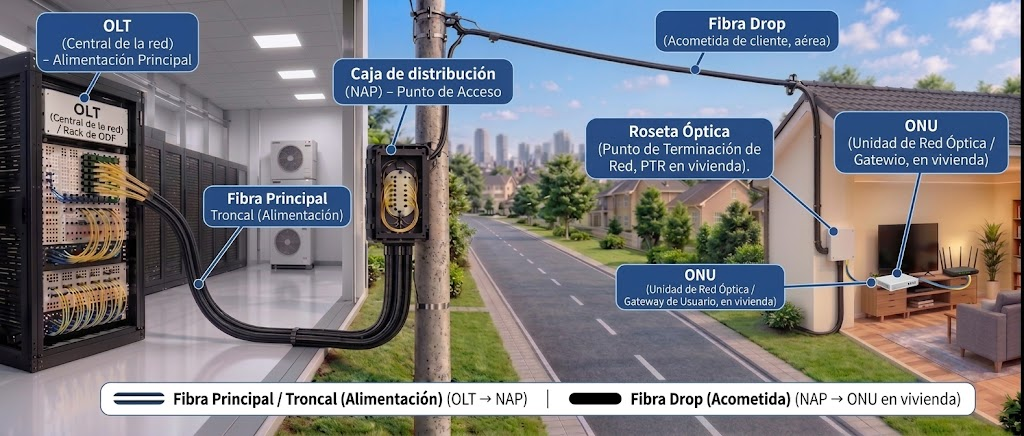
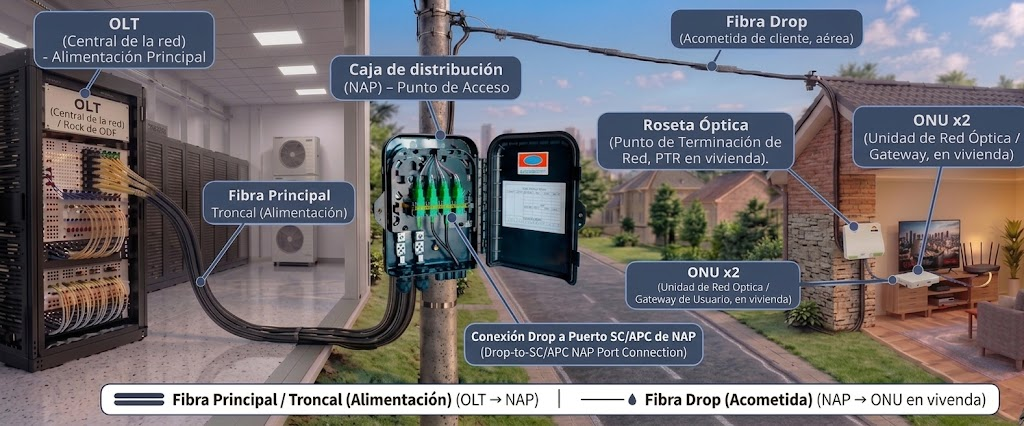
add so

diff --git a/clases/so/index.html b/clases/so/index.html
@@ -1,0 +1,277 @@
+<!DOCTYPE html>
+<html lang="es">
+
+<head>
+    <meta charset="UTF-8">
+    <meta name="viewport" content="width=device-width, initial-scale=1.0">
+    <title>Fundamentos de Sistemas Operativos</title>
+    <style>
+        /* CSS Reset y Base Mobile-First */
+        * {
+            box-sizing: border-box;
+            margin: 0;
+            padding: 0;
+        }
+
+        body {
+            font-family: -apple-system, BlinkMacSystemFont, "Segoe UI", Roboto, Helvetica, Arial, sans-serif;
+            background-color: #ffffff;
+            color: #000000;
+            line-height: 1.6;
+            padding: 1rem;
+        }
+
+        header {
+            text-align: center;
+            padding: 1.5rem 0 2rem 0;
+            border-bottom: 2px solid #000000;
+            margin-bottom: 2rem;
+        }
+
+        header h1 {
+            font-size: 1.8rem;
+            text-transform: uppercase;
+            letter-spacing: 0.5px;
+            margin-bottom: 0.5rem;
+        }
+
+        header p {
+            font-size: 1rem;
+            color: #333333;
+        }
+
+        /* Contenedor principal */
+        main {
+            max-width: 900px;
+            margin: 0 auto;
+        }
+
+        /* Secciones separadas */
+        .card-topic {
+            background-color: #ffffff;
+            border-left: 5px solid #000000;
+            box-shadow: 0 4px 12px rgba(0, 0, 0, 0.1);
+            /* Sombra gris 10% */
+            padding: 1.5rem;
+            margin-bottom: 2rem;
+            border-radius: 0 8px 8px 0;
+        }
+
+        .card-topic h2 {
+            font-size: 1.4rem;
+            margin-bottom: 1rem;
+            text-transform: uppercase;
+            border-bottom: 1px solid #e0e0e0;
+            padding-bottom: 0.4rem;
+        }
+
+        .card-topic h3 {
+            font-size: 1.15rem;
+            margin: 1.2rem 0 0.5rem 0;
+        }
+
+        .card-topic p {
+            margin-bottom: 0.8rem;
+            font-size: 0.98rem;
+        }
+
+        .card-topic ul {
+            margin-left: 1.2rem;
+            margin-bottom: 1rem;
+        }
+
+        .card-topic li {
+            margin-bottom: 0.4rem;
+            font-size: 0.95rem;
+        }
+
+        code {
+            background-color: #f4f4f4;
+            padding: 0.2rem 0.4rem;
+            border-radius: 4px;
+            font-family: "Courier New", Courier, monospace;
+            font-size: 0.9rem;
+        }
+
+        footer {
+            text-align: center;
+            padding: 2rem 0;
+            margin-top: 1rem;
+            border-top: 1px solid #e0e0e0;
+            font-size: 0.85rem;
+        }
+
+        /* Pantallas medianas y grandes (Desktop / Tablet) */
+        @media (min-width: 768px) {
+            body {
+                padding: 2rem;
+            }
+
+            header h1 {
+                font-size: 2.3rem;
+            }
+
+            .card-topic {
+                padding: 2rem;
+            }
+
+            .card-topic h2 {
+                font-size: 1.6rem;
+            }
+
+            .card-topic h3 {
+                font-size: 1.25rem;
+            }
+        }
+    </style>
+</head>
+
+<body>
+
+    <header>
+        <h1>Fundamentos de Sistemas Operativos</h1>
+        <p>Guía de conceptos esenciales, arquitecturas y sistemas de archivos</p>
+    </header>
+
+    <main>
+
+        <!-- Tema 1: Conceptos Fundamentales -->
+        <section class="card-topic">
+            <h2>1. Conceptos Clave de un Sistema Operativo</h2>
+            <p>Un <strong>Sistema Operativo (SO)</strong> es el software principal que gestiona el hardware de una
+                computadora y proporciona servicios a los programas de aplicación.</p>
+
+            <h3>Procesos vs. Hilos (Threads)</h3>
+            <ul>
+                <li><strong>Proceso:</strong> Es una programa en ejecución. Tiene su propio espacio de memoria
+                    independiente, asignación de recursos y contexto de seguridad.</li>
+                <li><strong>Hilo (Thread):</strong> Es la unidad más pequeña de ejecución dentro de un proceso.
+                    Múltiples hilos dentro del mismo proceso comparten la misma memoria y recursos, lo que permite la
+                    concurrencia y la multitarea eficiente.</li>
+            </ul>
+
+            <h3>Servicios y Demonios (Daemons)</h3>
+            <p>Son programas que se ejecutan en segundo plano sin una interfaz de usuario directa para realizar tareas
+                continuas o responder a eventos del sistema:</p>
+            <ul>
+                <li><strong>Servicios (Windows):</strong> Procesos gestionados por el Administrador de Control de
+                    Servicios (por ejemplo, el servicio de actualización o cola de impresión).</li>
+                <li><strong>Demonios / Daemons (Linux y macOS):</strong> Procesos en segundo plano que usualmente
+                    terminan en "d" (ej. <code>sshd</code>, <code>httpd</code>, <code>launchd</code>).</li>
+            </ul>
+
+            <h3>Kernel o Núcleo</h3>
+            <p>Es el corazón del SO. Controla el acceso directo al hardware (CPU, memoria, dispositivos I/O) y gestiona
+                la transición entre el espacio de usuario y el espacio de kernel.</p>
+        </section>
+
+        <!-- Tema 2: Windows 10 y 11 -->
+        <section class="card-topic">
+            <h2>2. Microsoft Windows (10 y 11)</h2>
+            <p>Windows es un sistema operativo de código cerrado orientado al usuario final y entornos empresariales,
+                basado en el núcleo <strong>Windows NT</strong>.</p>
+
+            <h3>Sistema de Archivos: NTFS y ReFS</h3>
+            <ul>
+                <li><strong>NTFS (New Technology File System):</strong> El sistema de archivos predeterminado desde
+                    Windows NT. Soporta permisos de acceso ACL (Listas de Control de Acceso), cifrado (EFS), compresión,
+                    listas de control de auditoría y archivos de gran tamaño.</li>
+                <li><strong>ReFS (Resilient File System):</strong> Diseñado para maximizar la disponibilidad de datos,
+                    tolerancia a fallos y manejo de grandes volúmenes de almacenamiento (usado principalmente en Windows
+                    Server y versiones Pro/Enterprise).</li>
+            </ul>
+
+            <h3>Características Destacadas</h3>
+            <ul>
+                <li>Uso intensivo del <strong>Registro de Windows</strong>, una base de datos centralizada para
+                    configuraciones del sistema y aplicaciones.</li>
+                <li>Soporte para ejecutar subsistemas como WSL (Windows Subsystem for Linux).</li>
+            </ul>
+        </section>
+
+        <!-- Tema 3: macOS -->
+        <section class="card-topic">
+            <h2>3. Apple macOS</h2>
+            <p>macOS es el sistema operativo exclusivo de los equipos Mac, basado en <strong>Unix</strong> (núcleo XNU /
+                arquitectura Darwin). Cumple con las especificaciones POSIX.</p>
+
+            <h3>Sistema de Archivos: APFS</h3>
+            <ul>
+                <li><strong>APFS (Apple File System):</strong> Optimizado para almacenamiento SSD y Flash. Ofrece un
+                    cifrado fuerte de varios claves, clonación instantánea de archivos, "snapshots" (capturas de estado
+                    del sistema para respaldos con Time Machine) y asignación dinámica de espacio.</li>
+                <li><strong>HFS+ (Hierarchical File System Plus):</strong> El sistema heredado sustituido por APFS a
+                    partir de macOS High Sierra.</li>
+            </ul>
+
+            <h3>Gestión de Servicios</h3>
+            <p>Usa <code>launchd</code> como sistema de inicialización y gestión de demonios en segundo plano,
+                reemplazando a los tradicionales scripts <code>init.d</code> o <code>cron</code>.</p>
+        </section>
+
+        <!-- Tema 4: Linux y Vertientes -->
+        <section class="card-topic">
+            <h2>4. Linux y sus Principales Vertientes</h2>
+            <p>Linux es un núcleo (Kernel) de código abierto inspirado en Unix. Al combinarse con software de GNU y
+                repositorios, conforma una <strong>Distribución Linux (Distro)</strong>.</p>
+
+            <h3>Las dos grandes familias/vertientes:</h3>
+            <ul>
+                <li><strong>Vertiente Debian:</strong>
+                    <ul>
+                        <li>Se enfoca en la estabilidad, la filosofía del software libre y una inmensa comunidad.</li>
+                        <li>Gestión de paquetes mediante <code>.deb</code> con herramientas como <code>apt</code> y
+                            <code>dpkg</code>.
+                        </li>
+                        <li><em>Ejemplos destacados:</em> Debian, Ubuntu, Linux Mint, Pop!_OS, Kali Linux.</li>
+                    </ul>
+                </li>
+                <li><strong>Vertiente Red Hat:</strong>
+                    <ul>
+                        <li>Orientada a entornos empresariales, servidores corporativos, rendimiento y certificación de
+                            seguridad.</li>
+                        <li>Gestión de paquetes mediante <code>.rpm</code> con herramientas como <code>dnf</code> y
+                            <code>yum</code>.
+                        </li>
+                        <li><em>Ejemplos destacados:</em> RHEL (Red Hat Enterprise Linux), Fedora, CentOS Stream, Rocky
+                            Linux, AlmaLinux.</li>
+                    </ul>
+                </li>
+            </ul>
+
+            <h3>Sistemas de Archivos en Linux</h3>
+            <ul>
+                <li><strong>ext4 (Fourth Extended Filesystem):</strong> Es el estándar más utilizado. Soporta journaling
+                    (diario para evitar corrupción de datos en cortes de energía), desfragmentación en línea y excelente
+                    rendimiento general.</li>
+                <li><strong>Btrfs / XFS:</strong> Sistemas modernos utilizados frecuentemente en servidores y
+                    distribuidores como Fedora o RHEL por su soporte de volúmenes lógicos, snapshots y tolerancia a
+                    fallos.</li>
+            </ul>
+        </section>
+
+        <!-- Tema 5: Jerarquía del Sistema de Archivos en Unix/Linux -->
+        <section class="card-topic">
+            <h2>5. Estructura de Directorios (FHS en Linux)</h2>
+            <p>A diferencia de Windows (que usa letras de unidad como <code>C:\</code> o <code>D:\</code>), Linux y
+                macOS organizan todo desde una única raíz representada por una barra diagonal <code>/</code>:</p>
+            <ul>
+                <li><code>/</code> : La raíz del sistema de archivos (Root).</li>
+                <li><code>/bin</code> y <code>/usr/bin</code> : Binarios y comandos esenciales del sistema.</li>
+                <li><code>/etc</code> : Archivos de configuración del sistema y servicios.</li>
+                <li><code>/home</code> (o <code>/Users</code> en macOS) : Directorios personales de cada usuario.</li>
+                <li><code>/var</code> : Archivos variables (logs, bases de datos temporales, colas de correo).</li>
+                <li><code>/proc</code> : Sistema de archivos virtual que expone información sobre el kernel y los
+                    procesos en ejecución.</li>
+            </ul>
+        </section>
+
+    </main>
+
+    <footer>
+        <p>Fundamentos de Sistemas Operativos. </p>
+    </footer>
+
+</body>
+
+</html>
